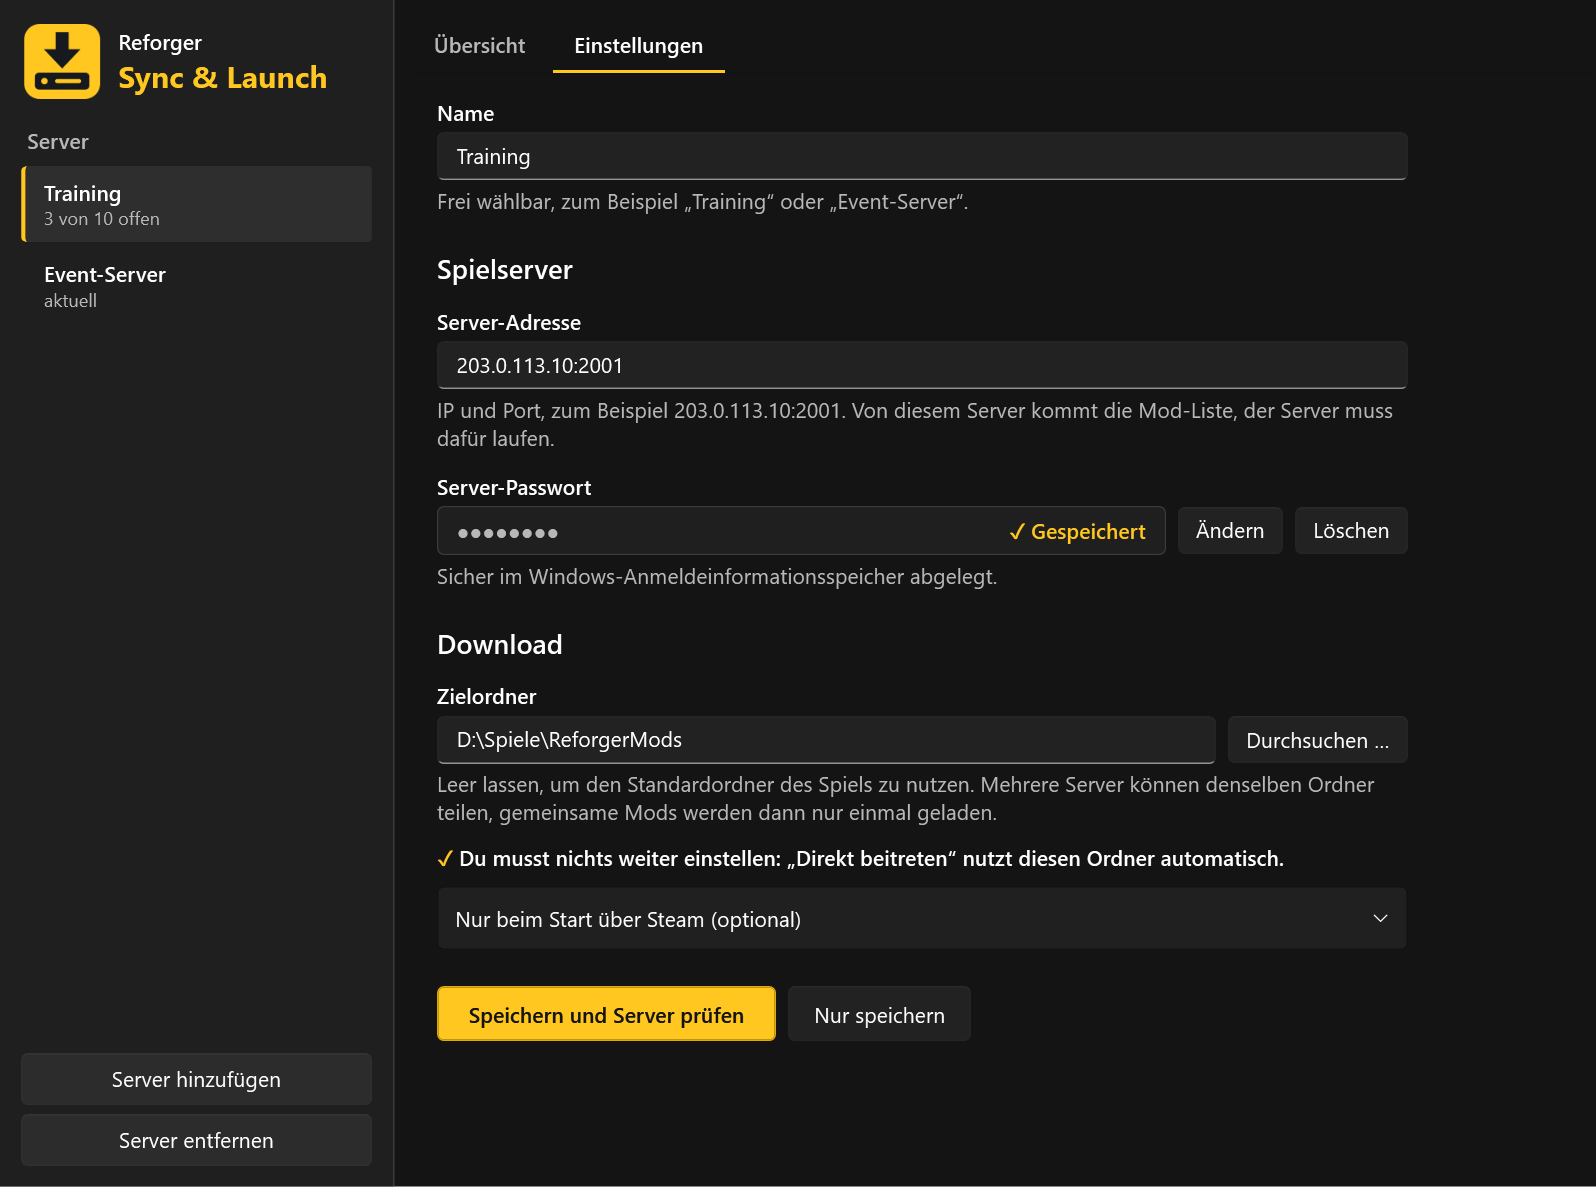
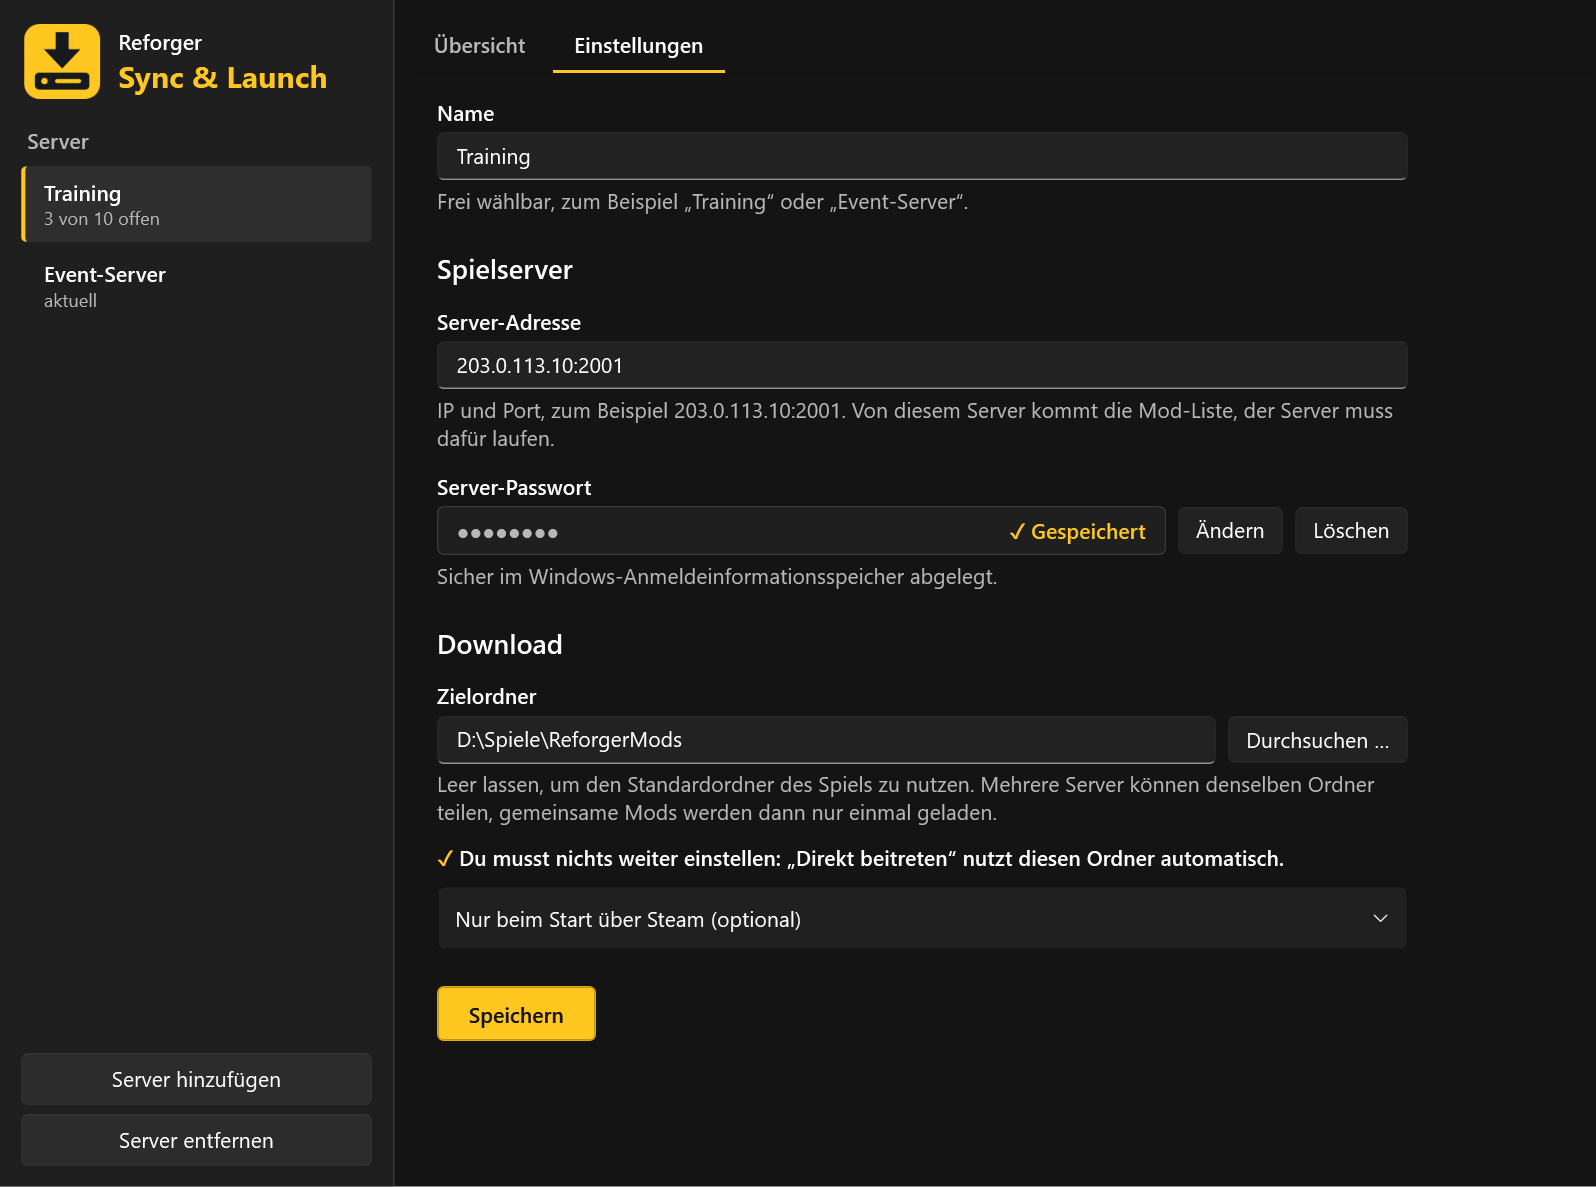
Einstellungen: nur noch Speichern, Prüfen läuft über die Übersicht
Speichern braucht keinen Serverkontakt mehr und legt auch das Passwort
direkt ab. Die Passwortübergabe an die Prüfung entfällt damit.

Changed region(s): [[0.3684, 0.8104, 0.4912, 0.904], [0.5219, 0.8416, 0.5833, 0.8728]]

diff --git a/src/ReforgerModSync.App/MainWindow.xaml b/src/ReforgerModSync.App/MainWindow.xaml
@@ -293,10 +293,8 @@
 
                         <StackPanel Orientation="Horizontal" Margin="0,24,0,0"
                                     IsEnabled="{Binding DataContext.IsNotBusy, RelativeSource={RelativeSource AncestorType=Window}}">
-                            <Button Content="Speichern und Server prüfen" Click="OnSaveAndCheckClick"
+                            <Button Content="Speichern" Click="OnSaveClick"
                                     Style="{DynamicResource AccentButtonStyle}" FontWeight="SemiBold" Padding="20,8" />
-                            <Button Content="Nur speichern" Click="OnSaveOnlyClick" Margin="8,0,0,0" Padding="16,8"
-                                    ToolTip="Speichert ohne Verbindung zum Server, zum Beispiel wenn er gerade offline ist. Ein eingegebenes Passwort wird dabei nicht geprüft." />
                         </StackPanel>
                         <DockPanel Margin="0,12,0,0">
                             <local:BusyIndicator DockPanel.Dock="Left" Margin="0,1,10,0" VerticalAlignment="Top"

diff --git a/src/ReforgerModSync.App/MainViewModel.cs b/src/ReforgerModSync.App/MainViewModel.cs
@@ -126,8 +126,8 @@ public sealed partial class MainViewModel(
     }
 
     /// <summary>
-    /// Holt zur Prüfung die Liste vom Server, dafür läuft kurz der ausgeblendete Spielclient. Ein Passwort
-    /// wird nur gespeichert, wenn der Server es akzeptiert hat, alle anderen Werte in jedem Fall.
+    /// Speichert ohne Verbindung zum Server, damit sich auch ein Server einrichten lässt, der gerade offline ist.
+    /// Ob Adresse und Passwort stimmen, zeigt sich erst beim Prüfen oder Synchronisieren in der Übersicht.
     /// </summary>
     /// <param name="keepPasswordForNewAddress">Der Nutzer hat zugestimmt, das bisherige Passwort für die neue Adresse zu verwenden.</param>
     /// <returns><c>false</c>, wenn das eingegebene Passwort nicht gespeichert wurde und im Eingabefeld bleiben soll.</returns>
@@ -138,27 +138,36 @@ public sealed partial class MainViewModel(
             return false;
         }
 
-        if (await TryApplyChangesAsync(profile, keepPasswordForNewAddress) is not { } saved)
+        if (string.IsNullOrWhiteSpace(profile.Name))
         {
+            ShowSettingsMessage(profile, "Bitte einen Namen für diesen Server eintragen.", isError: true);
             return false;
         }
 
-        ShowSettingsMessage(profile, "Server wird geprüft, das dauert einen Moment …", isError: false);
-        var result = await RunExclusiveAsync(token => orchestrator.CheckAsync(
-            _settings,
-            saved,
-            enteredPassword.Length > 0 ? enteredPassword : null,
-            new Progress<SyncStatus>(status => OnRunStatus(profile, status)),
-            token));
-
-        if (result.Outcome != SyncOutcome.Checked)
+        var saved = profile.ToProfile();
+        if (!ClientArgsBuilder.IsValidServerAddress(saved.ServerAddress))
         {
-            Log.Warning("Prüfung von Server {Name} fehlgeschlagen: {Message}", saved.Name, result.Message);
-            var savedHint = enteredPassword.Length > 0
-                ? "Die Einstellungen sind gespeichert, das Passwort noch nicht. Mit „Nur speichern“ legst du es ungeprüft ab."
-                : "Die Einstellungen sind gespeichert.";
-            ShowSettingsMessage(profile, $"{result.Message} {savedHint}", isError: true);
+            ShowSettingsMessage(profile, "Bitte die Server-Adresse als IP und Port eintragen, zum Beispiel 203.0.113.10:2001.", isError: true);
             return false;
+        }
+
+        var previous = profile.Saved;
+        profile.Saved = saved;
+        await PersistAsync();
+
+        if (previous is not null && previous.ServerAddress != saved.ServerAddress)
+        {
+            // Die gemerkte Liste gehört zum alten Server und würde in der Übersicht falsche Mods zeigen.
+            ResetModList(profile);
+            if (previous.ServerAddress is { } previousAddress
+                && !TryMovePassword(profile, previousAddress, saved.ServerAddress!, keepPasswordForNewAddress))
+            {
+                return false;
+            }
+        }
+        else if (previous is not null && previous.DownloadDir != saved.DownloadDir)
+        {
+            await ShowCachedListAsync(profile);
         }
 
         if (!TryStorePassword(profile, saved, enteredPassword))
@@ -167,81 +176,9 @@ public sealed partial class MainViewModel(
         }
 
         ReadPasswordState(profile);
-        ShowMods(profile, result.Mods);
-        SetStandNow(profile);
-        SetStatus(profile, "", isError: false);
-        Log.Information("Server {Name} gespeichert, {Count} Mods", saved.Name, result.Mods.Count);
-        ShowSettingsMessage(profile, $"Gespeichert. Der Server listet {result.Mods.Count} Mods.", isError: false);
-        SelectedTab = 0;
+        Log.Information("Server {Name} gespeichert", saved.Name);
+        ShowSettingsMessage(profile, "Gespeichert. Prüfen und synchronisieren kannst du in der Übersicht.", isError: false);
         return true;
-    }
-
-    /// <summary>
-    /// Speichert ohne Verbindung zum Server, zum Beispiel wenn er gerade offline ist. Auch ein eingegebenes
-    /// Passwort wird ungeprüft abgelegt, ob es stimmt, zeigt sich erst beim nächsten Kontakt mit dem Server.
-    /// </summary>
-    /// <returns><c>false</c>, wenn das eingegebene Passwort nicht gespeichert wurde und im Eingabefeld bleiben soll.</returns>
-    public async Task<bool> SaveSelectedProfileWithoutCheckAsync(string enteredPassword, bool keepPasswordForNewAddress = false)
-    {
-        if (SelectedProfile is not { } profile || IsBusy)
-        {
-            return false;
-        }
-
-        if (await TryApplyChangesAsync(profile, keepPasswordForNewAddress) is not { } saved
-            || !TryStorePassword(profile, saved, enteredPassword))
-        {
-            return false;
-        }
-
-        ReadPasswordState(profile);
-        Log.Information("Server {Name} ohne Prüfung gespeichert", saved.Name);
-        ShowSettingsMessage(profile, "Gespeichert, aber nicht geprüft. Ob alles passt, zeigt „Neu prüfen“ in der Übersicht, sobald der Server läuft.", isError: false);
-        return true;
-    }
-
-    /// <summary>Prüft die Eingaben, schreibt sie in die Einstellungen und zieht Passwort und Mod-Liste nach.</summary>
-    /// <returns>Der gespeicherte Stand, oder <c>null</c>, wenn dem Nutzer ein Problem angezeigt wird.</returns>
-    private async Task<ServerProfile?> TryApplyChangesAsync(ProfileViewModel profile, bool keepPasswordForNewAddress)
-    {
-        if (string.IsNullOrWhiteSpace(profile.Name))
-        {
-            ShowSettingsMessage(profile, "Bitte einen Namen für diesen Server eintragen.", isError: true);
-            return null;
-        }
-
-        var saved = profile.ToProfile();
-        if (!ClientArgsBuilder.IsValidServerAddress(saved.ServerAddress))
-        {
-            ShowSettingsMessage(profile, "Bitte die Server-Adresse als IP und Port eintragen, zum Beispiel 203.0.113.10:2001.", isError: true);
-            return null;
-        }
-
-        var previous = profile.Saved;
-        profile.Saved = saved;
-        await PersistAsync();
-
-        if (previous is null)
-        {
-            return saved;
-        }
-
-        if (previous.ServerAddress != saved.ServerAddress)
-        {
-            // Die gemerkte Liste gehört zum alten Server und würde in der Übersicht falsche Mods zeigen.
-            ResetModList(profile);
-            if (previous.ServerAddress is { } previousAddress
-                && !TryMovePassword(profile, previousAddress, saved.ServerAddress!, keepPasswordForNewAddress))
-            {
-                return null;
-            }
-        }
-        else if (previous.DownloadDir != saved.DownloadDir)
-        {
-            await ShowCachedListAsync(profile);
-        }
-
-        return saved;
     }
 
     private bool TryStorePassword(ProfileViewModel profile, ServerProfile saved, string enteredPassword)
@@ -347,7 +284,6 @@ public sealed partial class MainViewModel(
         var result = await RunExclusiveAsync(token => orchestrator.CheckAsync(
             _settings,
             saved,
-            null,
             new Progress<SyncStatus>(status => OnRunStatus(profile, status)),
             token));
 

diff --git a/src/ReforgerModSync.Core/Sync/SyncOrchestrator.cs b/src/ReforgerModSync.Core/Sync/SyncOrchestrator.cs
@@ -43,11 +43,10 @@ public sealed class SyncOrchestrator(ICredentialStore credentialStore, ModListCa
         TotalTimeout,
     }
 
-    /// <summary>Holt nur die Liste und vergleicht. <paramref name="passwordOverride"/> gilt für neu eingetippte Passwörter.</summary>
+    /// <summary>Holt nur die Liste und vergleicht.</summary>
     public Task<SyncResult> CheckAsync(
         AppSettings settings,
         ServerProfile profile,
-        string? passwordOverride,
         IProgress<SyncStatus> progress,
         CancellationToken cancellationToken) =>
         RunExclusiveAsync(async () =>
@@ -57,7 +56,7 @@ public sealed class SyncOrchestrator(ICredentialStore credentialStore, ModListCa
                 return Failed(problem);
             }
 
-            var required = await FetchListAsync(settings, profile, clientExe, passwordOverride, progress, cancellationToken);
+            var required = await FetchListAsync(settings, profile, clientExe, progress, cancellationToken);
             var comparison = await CompareAsync(required, AddonPaths.ResolveModsRoot(profile.DownloadDir), cancellationToken);
             return new SyncResult(SyncOutcome.Checked, $"Liste vom Server geholt: {comparison.Count} Mods.", comparison);
         }, cancellationToken);
@@ -76,7 +75,7 @@ public sealed class SyncOrchestrator(ICredentialStore credentialStore, ModListCa
                 return Failed(problem);
             }
 
-            var required = await FetchListAsync(settings, profile, clientExe, null, progress, cancellationToken);
+            var required = await FetchListAsync(settings, profile, clientExe, progress, cancellationToken);
             return await DownloadAsync(settings, profile, clientExe, required, progress, cancellationToken);
         }, cancellationToken);
 
@@ -119,14 +118,13 @@ public sealed class SyncOrchestrator(ICredentialStore credentialStore, ModListCa
         AppSettings settings,
         ServerProfile profile,
         string clientExe,
-        string? passwordOverride,
         IProgress<SyncStatus> progress,
         CancellationToken cancellationToken)
     {
         progress.Report(new SyncStatus("Mod-Liste wird vom Server geholt …"));
         var address = profile.ServerAddress!.Trim();
         var (logsDir, profileDir) = PrepareRunFolders();
-        var passwordFile = await WritePasswordFileAsync(profile, passwordOverride, profileDir, cancellationToken);
+        var passwordFile = await WritePasswordFileAsync(profile, profileDir, cancellationToken);
 
         try
         {
@@ -153,11 +151,10 @@ public sealed class SyncOrchestrator(ICredentialStore credentialStore, ModListCa
     /// <returns>Der Pfad, den der Aufrufer am Ende löscht. Die Hilfs-Mod löscht die Datei schon beim Lesen.</returns>
     private async Task<string> WritePasswordFileAsync(
         ServerProfile profile,
-        string? passwordOverride,
         string profileDir,
         CancellationToken cancellationToken)
     {
-        var password = passwordOverride ?? credentialStore.ReadPassword(profile.ServerAddress!.Trim(), profile.Id);
+        var password = credentialStore.ReadPassword(profile.ServerAddress!.Trim(), profile.Id);
         var profileData = Path.Combine(profileDir, "profile");
         Directory.CreateDirectory(profileData);
         var passwordFile = Path.Combine(profileData, PasswordFileName);
@@ -341,7 +338,7 @@ public sealed class SyncOrchestrator(ICredentialStore credentialStore, ModListCa
         var open = comparison.Where(mod => mod.State != ModState.Current).Select(mod => mod.Required).ToList();
         progress.Report(new SyncStatus($"Spielclient lädt {open.Count} Mods …"));
         var arguments = ClientArgsBuilder.BuildDownload(profile.ServerAddress!, open, profile.DownloadDir, settings.Client, logsDir, profileDir, AddonPaths.HelperRoot);
-        var passwordFile = await WritePasswordFileAsync(profile, null, profileDir, cancellationToken);
+        var passwordFile = await WritePasswordFileAsync(profile, profileDir, cancellationToken);
         try
         {
             using var session = ClientSession.Start(clientExe, arguments, settings.Client.HideWindow);

diff --git a/src/ReforgerModSync.App/MainWindow.xaml.cs b/src/ReforgerModSync.App/MainWindow.xaml.cs
@@ -37,13 +37,7 @@ public partial class MainWindow : Window
     }
 
     // Das Passwort bleibt bewusst im PasswordBox-Steuerelement und wird nie an eine Bindung gehängt.
-    private async void OnSaveAndCheckClick(object sender, RoutedEventArgs e) =>
-        await SaveAsync((Button)sender, _viewModel.SaveSelectedProfileAsync);
-
-    private async void OnSaveOnlyClick(object sender, RoutedEventArgs e) =>
-        await SaveAsync((Button)sender, _viewModel.SaveSelectedProfileWithoutCheckAsync);
-
-    private async Task SaveAsync(Button button, Func<string, bool, Task<bool>> save)
+    private async void OnSaveClick(object sender, RoutedEventArgs e)
     {
         var keepPassword = false;
         if (_viewModel.NeedsPasswordTransferDecision(PasswordInput.Password))
@@ -52,16 +46,17 @@ public partial class MainWindow : Window
                 this,
                 "Server-Adresse geändert",
                 "Das gespeicherte Passwort gehört zur bisherigen Adresse. Soll es auch für die neue Adresse gelten? "
-                    + "Es wird dann beim Prüfen und Beitreten an diesen Server übermittelt. Ohne Übernahme wird es gelöscht.",
+                    + "Es wird dann an diesen Server übermittelt, sobald du ihn prüfst, synchronisierst oder ihm beitrittst. Ohne Übernahme wird es gelöscht.",
                 "Übernehmen",
                 cancelText: "Nicht übernehmen");
         }
 
+        var button = (Button)sender;
         button.IsEnabled = false;
         try
         {
             // Nach einem Fehlschlag bleibt die Eingabe stehen, damit sie nicht neu getippt werden muss.
-            var stored = await save(PasswordInput.Password, keepPassword);
+            var stored = await _viewModel.SaveSelectedProfileAsync(PasswordInput.Password, keepPassword);
             if (stored || _viewModel.SelectedProfile is { ShowPasswordInput: false })
             {
                 PasswordInput.Clear();

diff --git a/README.md b/README.md
@@ -45,7 +45,7 @@ Alles wird im Reiter **Einstellungen** eingetragen:
 | **Server-Passwort** | Leer lassen, wenn der Server keines hat |
 | **Zielordner** | Wohin die Mods geladen werden. Leer lassen, um den Standardordner des Spiels zu nutzen |
 
-Klicke danach auf **Speichern und Server prüfen**. Das dauert rund 10 Sekunden. Ist der Server gerade offline, legst du alles mit **Nur speichern** ungeprüft ab und prüfst später in der Übersicht mit **Neu prüfen**.
+Klicke danach auf **Speichern**. Dabei wird noch nicht geprüft, ob Adresse und Passwort stimmen, der Server darf also gerade offline sein. Das zeigt sich erst in der **Übersicht** mit **Neu prüfen** oder **Jetzt synchronisieren**. Beides braucht einen laufenden Server.
 
 **Zielordner:** Die Mods liegen darin im Unterordner `addons`. Wähle den Ordner, der deinen vorhandenen `addons`-Ordner enthält, sonst wird alles neu geladen.
 
